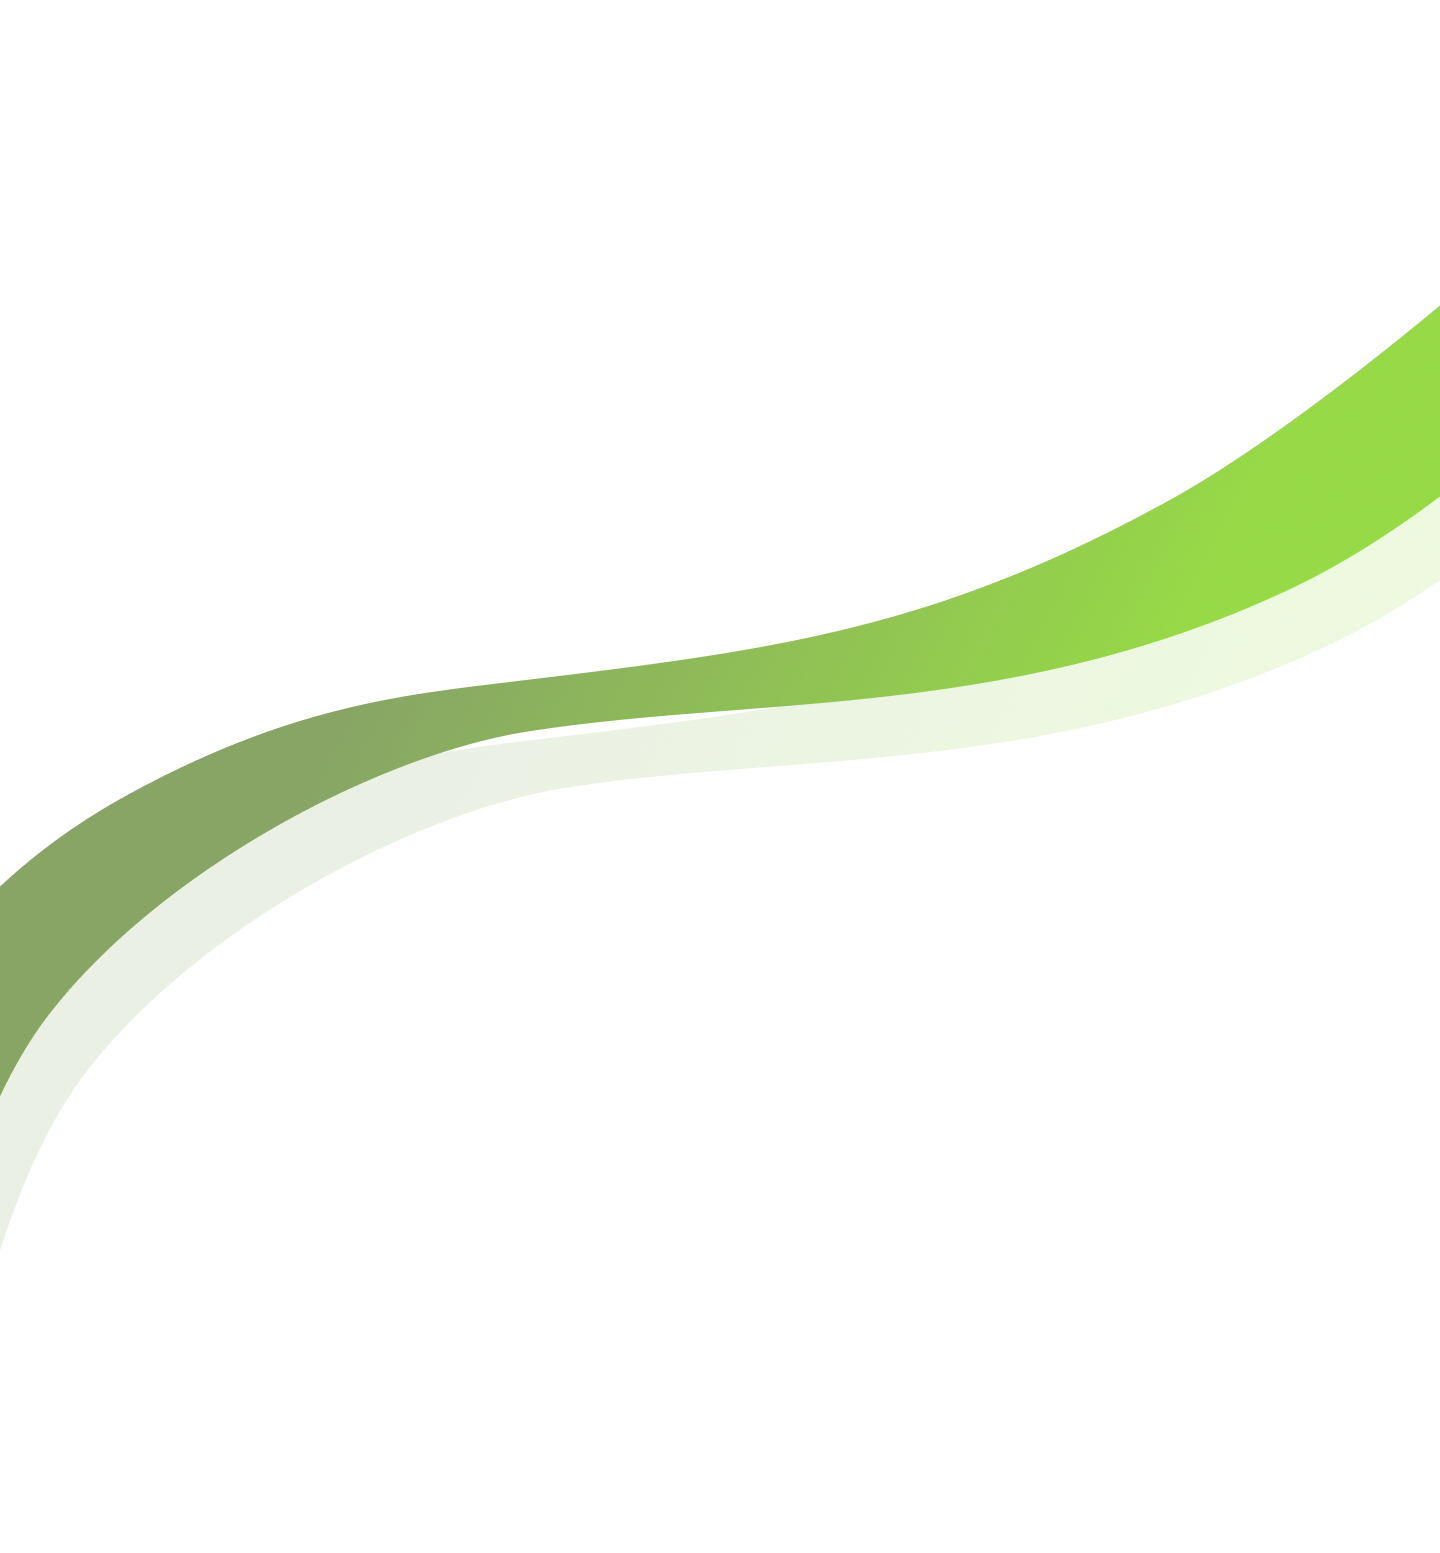
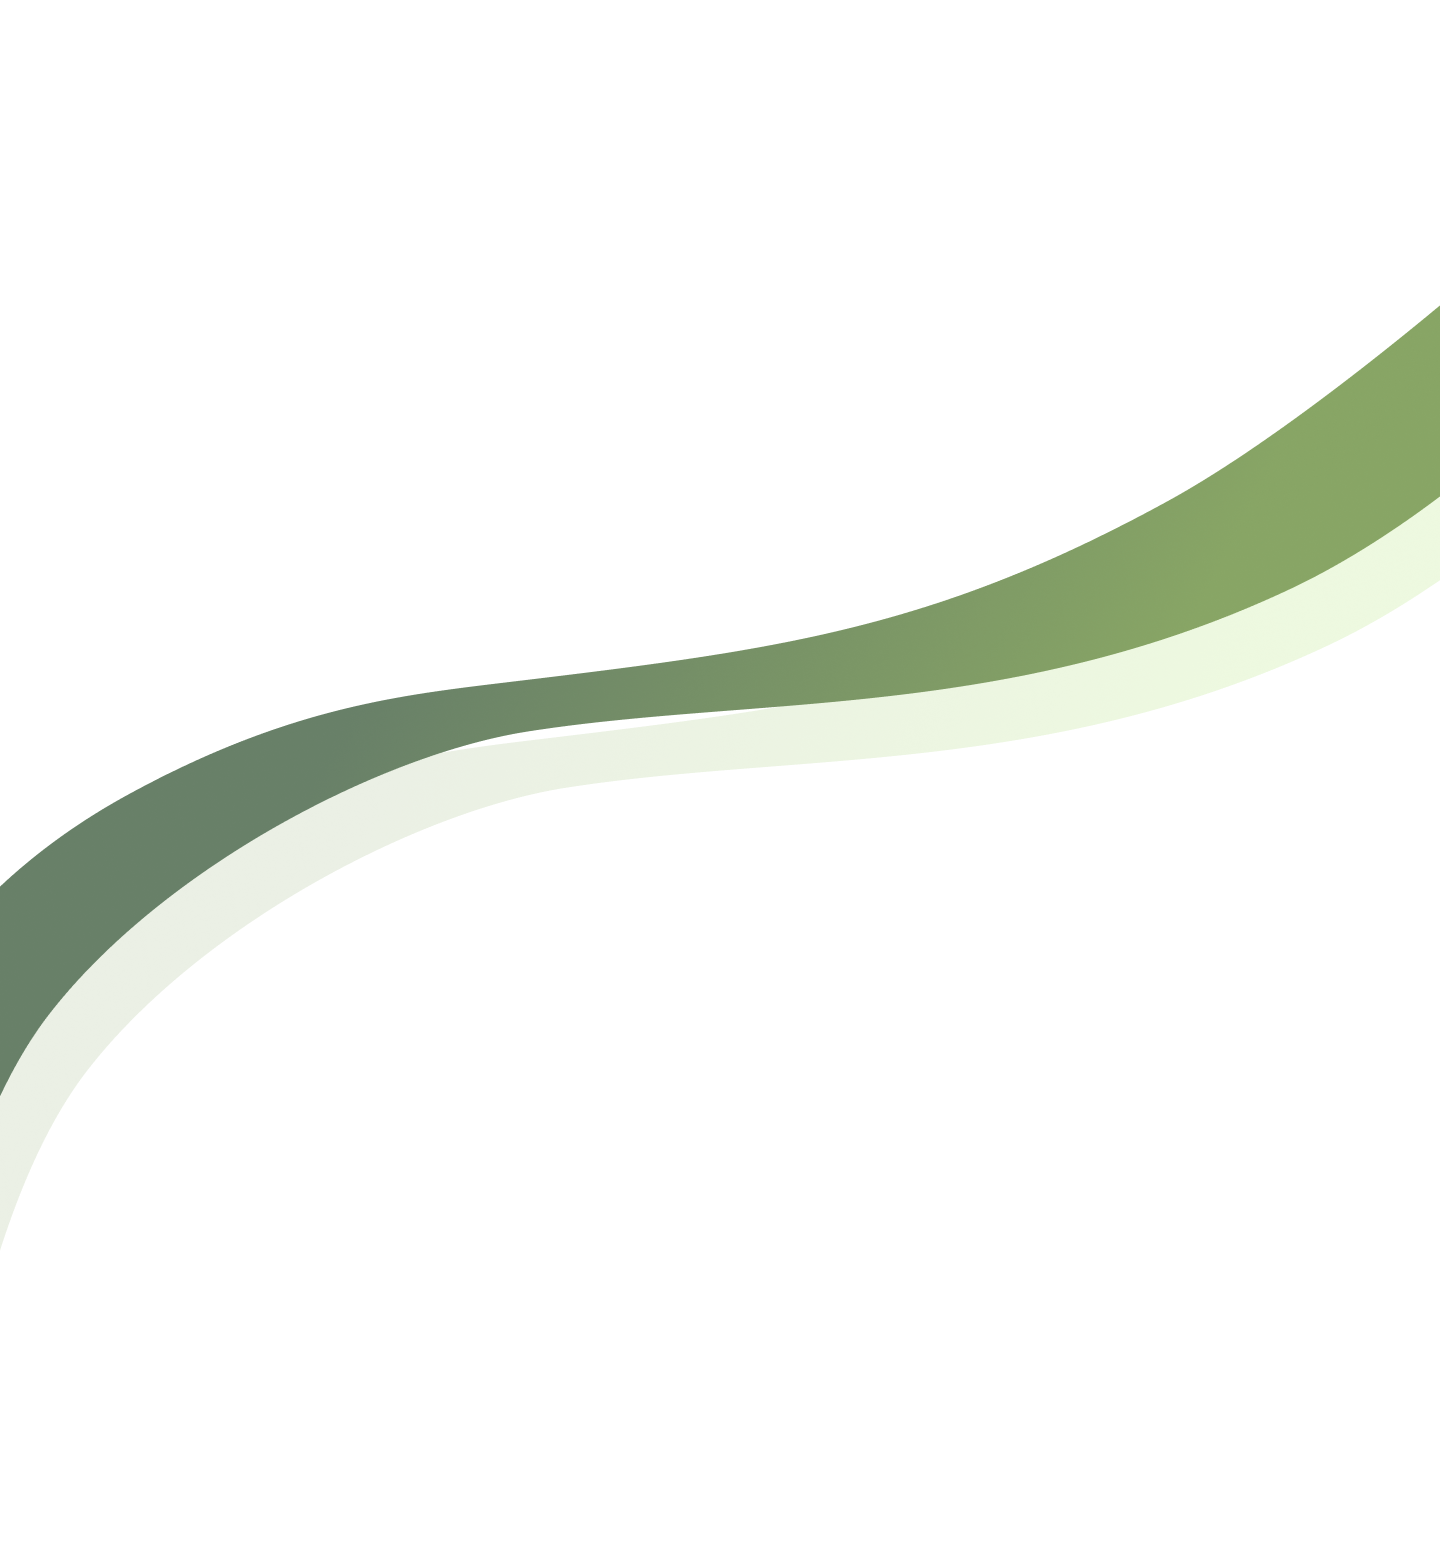
added some new styles to hero and replaces lines image

Changed region(s): [[0.0, 0.1854, 1.0, 0.7109]]

diff --git a/scss/styles.css b/scss/styles.css
@@ -23,18 +23,18 @@ h1, h2, h3, h4, h5, h6, p, label, a {
 }
 
 ::-webkit-scrollbar-thumb {
-  background: #88A565;
+  background: #688068;
   border-radius: 3px;
 }
 
 ::-moz-selection {
   color: #fff;
-  background: #88A565;
+  background: #688068;
 }
 
 ::selection {
   color: #fff;
-  background: #88A565;
+  background: #688068;
 }
 
 header {
@@ -77,7 +77,7 @@ header .header-container ul button {
 }
 header .header-container ul a:hover,
 header .header-container ul button:hover {
-  color: #88A565;
+  color: #688068;
 }
 header .header-container ul button svg {
   position: relative;
@@ -94,7 +94,7 @@ header .header-container .languages .show-languages-button {
   cursor: pointer;
 }
 header .header-container .languages .show-languages-button:hover {
-  color: #88A565;
+  color: #688068;
 }
 header .header-container .languages .show-languages-button svg {
   position: relative;
@@ -251,13 +251,16 @@ header .header-container .navbar-toggler.open .line:nth-child(3) {
   margin: 30px 0px;
 }
 .hero .hero-container .hero-bottom .app-images {
-  padding: 30px 0px;
+  padding-top: 80px;
   display: flex;
   justify-content: center;
-  gap: 40px;
+  gap: 115px;
 }
 .hero .hero-container .hero-bottom .app-images img {
   width: 200px;
+}
+.hero .hero-container .hero-bottom .app-images img:nth-child(2) {
+  transform: translateY(-70px);
 }
 .hero .hero-container .hero-bottom .mobile-carousel {
   display: none;
@@ -274,6 +277,7 @@ header .header-container .navbar-toggler.open .line:nth-child(3) {
   display: flex;
   justify-content: center;
   gap: 20px;
+  margin-top: 80px;
 }
 .hero .hero-container .hero-bottom .app-links img {
   width: 200px;
@@ -411,7 +415,7 @@ section.contact-us form.contact-form .form-row textarea {
   padding: 10px;
   border: 1px solid #b7b7b7;
   border-radius: 10px;
-  outline-color: #88A565;
+  outline-color: #688068;
 }
 section.contact-us form.contact-form .form-row input::-moz-placeholder, section.contact-us form.contact-form .form-row select::-moz-placeholder, section.contact-us form.contact-form .form-row textarea::-moz-placeholder {
   -moz-transition: 300ms;
@@ -439,16 +443,16 @@ section.contact-us form.contact-form .form-row:nth-child(2) select {
   width: 90px;
 }
 section.contact-us form.contact-form .form-row input[type=submit] {
-  background: #88A565;
+  background: #688068;
   color: #fff;
   font-size: 18px;
   cursor: pointer;
-  border: 2px solid #88A565;
+  border: 2px solid #688068;
   transition: 300ms;
 }
 section.contact-us form.contact-form .form-row input[type=submit]:hover {
   background: #fff;
-  color: #88A565;
+  color: #688068;
 }
 section.contact-us form.contact-form .form-row textarea {
   height: 200px;
@@ -512,11 +516,11 @@ section.contact-us .form-alert-container.form-alert-container .form-alert.form-e
   color: red;
 }
 section.contact-us .form-alert-container.form-alert-container .form-alert button {
-  background: #88A565;
+  background: #688068;
   color: #fff;
   font-size: 18px;
   cursor: pointer;
-  border: 2px solid #88A565;
+  border: 2px solid #688068;
   transition: 300ms;
   width: 100%;
   padding: 10px;
@@ -524,7 +528,7 @@ section.contact-us .form-alert-container.form-alert-container .form-alert button
 }
 section.contact-us .form-alert-container.form-alert-container .form-alert button:hover {
   background: #fff;
-  color: #88A565;
+  color: #688068;
 }
 @media screen and (max-width: 992px) {
   section.contact-us .form-alert-container.form-alert-container .form-alert {

diff --git a/scss/_hero.scss b/scss/_hero.scss
@@ -47,10 +47,10 @@
 
         .hero-bottom {
             .app-images {
-                padding: 30px 0px;
+                padding-top: 80px;
                 display: flex;
                 justify-content: center;
-                gap: 40px;
+                gap: 115px;
 
                 // img:nth-child(1),
                 // img:nth-child(3) {
@@ -59,6 +59,10 @@
                 
                 img {
                     width: 200px;
+
+                    &:nth-child(2) {
+                        transform: translateY(-70px);
+                    }
                 }
             }
             
@@ -80,6 +84,7 @@
                 display: flex;
                 justify-content: center;
                 gap: 20px;
+                margin-top: 80px;
 
                 img {
                     width: 200px;

diff --git a/scss/_variables.scss b/scss/_variables.scss
@@ -1,4 +1,4 @@
 $siteBgColor: #fff;
 $secondaryBgColor: #eee;
 $headingsColor: #1A3B68;
-$accentColor: #88A565;
+$accentColor: #688068;
